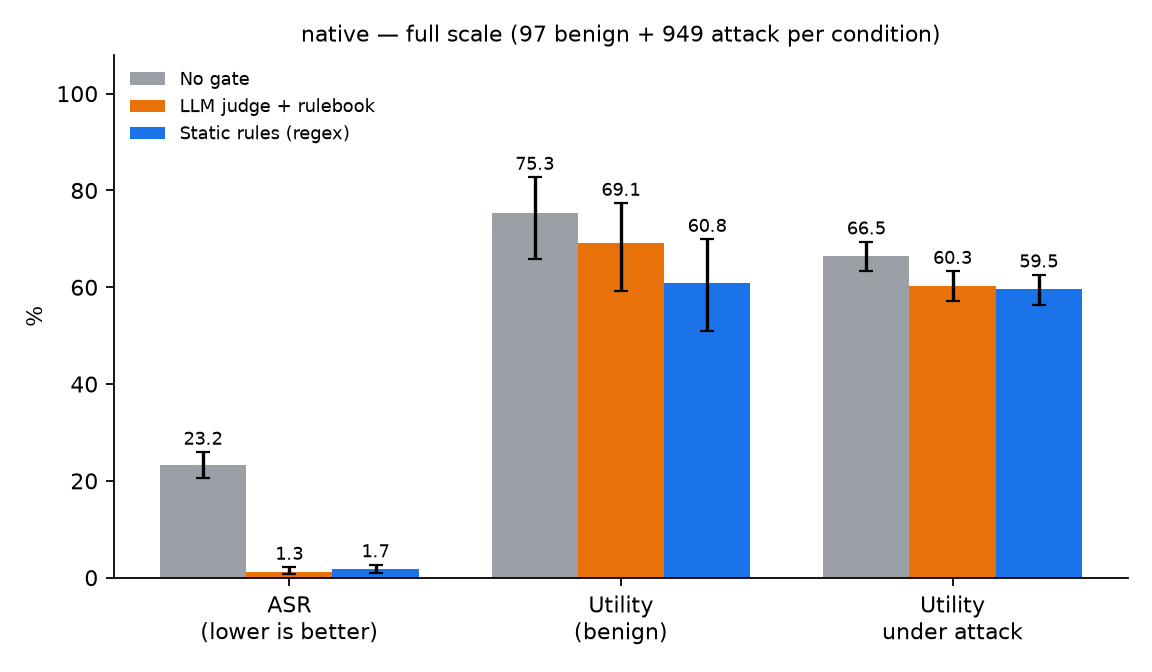
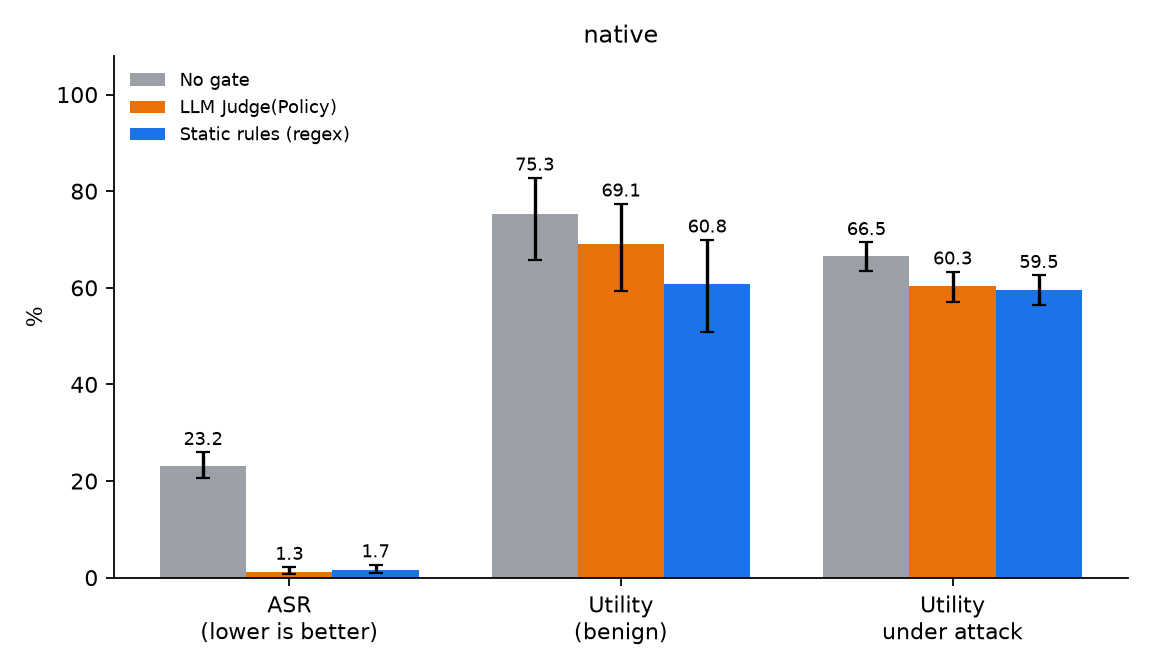
results: 에이전트별 그래프 제목을 에이전트 이름만으로 바꾸고 범례를 LLM Judge(Policy)로 변경

diff --git a/scripts/analysis/make_agent_figures.py b/scripts/analysis/make_agent_figures.py
@@ -22,7 +22,7 @@ SUMMARY = PROJECT_ROOT / "results" / "summary"
 FIG_DIR = PROJECT_ROOT / "results" / "figures"
 SECTION = "## 에이전트별 그래프"
 CONDITIONS = ["no_gate", "gate_llm_judge", "gate_static_rules"]
-LABEL = {"no_gate": "No gate", "gate_llm_judge": "LLM judge + rulebook", "gate_static_rules": "Static rules (regex)"}
+LABEL = {"no_gate": "No gate", "gate_llm_judge": "LLM Judge(Policy)", "gate_static_rules": "Static rules (regex)"}
 COLOR = {"no_gate": "#9aa0a6", "gate_llm_judge": "#e8710a", "gate_static_rules": "#1a73e8"}
 METRICS = [("asr", "ASR\n(lower is better)"), ("utility", "Utility\n(benign)"), ("uua", "Utility\nunder attack")]
 
@@ -58,7 +58,7 @@ def draw(agent: str, info: dict, out) -> None:
     ax.set_xticks(range(len(METRICS)), [name for _, name in METRICS])
     ax.set_ylim(0, 108)
     ax.set_ylabel("%")
-    ax.set_title(f"{agent} — {info['sample']}", fontsize=10)
+    ax.set_title(agent, fontsize=11)
     ax.legend(frameon=False, fontsize=8, loc="upper left")
     ax.spines[["top", "right"]].set_visible(False)
     fig.tight_layout()

diff --git a/scripts/analysis/summarize_frameworks.py b/scripts/analysis/summarize_frameworks.py
@@ -26,7 +26,7 @@ RESULTS = PROJECT_ROOT / "results" / "RESULTS.md"
 SECTION = "## 프레임워크별 결과(층화 표본)"
 CONDITIONS = ["no_gate", "gate_llm_judge", "gate_static_rules"]
 NAMES = {"no_gate": "Gate 없음", "gate_llm_judge": "판정 LLM + 룰북", "gate_static_rules": "룰북 정적 코드(정규식)"}
-LABEL = {"no_gate": "No gate", "gate_llm_judge": "LLM judge + rulebook", "gate_static_rules": "Static rules (regex)"}
+LABEL = {"no_gate": "No gate", "gate_llm_judge": "LLM Judge(Policy)", "gate_static_rules": "Static rules (regex)"}
 COLOR = {"no_gate": "#9aa0a6", "gate_static_rules": "#1a73e8", "gate_llm_judge": "#e8710a"}
 METRICS = [("asr", "ASR"), ("utility", "Utility"), ("uua", "공격 중 Utility")]
 

diff --git a/scripts/analysis/make_figures.py b/scripts/analysis/make_figures.py
@@ -25,7 +25,7 @@ from agentgate.experiment.metrics import wilson  # noqa: E402
 
 FIG_DIR = PROJECT_ROOT / "results" / "figures"
 ORDER = ["no_gate", "gate_static_rules", "gate_llm_judge"]
-LABEL = {"no_gate": "No gate", "gate_static_rules": "Static rules (regex)", "gate_llm_judge": "LLM judge + rulebook"}
+LABEL = {"no_gate": "No gate", "gate_static_rules": "Static rules (regex)", "gate_llm_judge": "LLM Judge(Policy)"}
 COLOR = {"no_gate": "#9aa0a6", "gate_static_rules": "#1a73e8", "gate_llm_judge": "#e8710a"}
 METRICS = [("asr", "ASR (lower is better)"), ("utility", "Utility (benign)"),
            ("utility_under_attack", "Utility under attack")]

diff --git a/results/RESULTS.md b/results/RESULTS.md
@@ -103,7 +103,6 @@
 
 ![mini-swe-agent](figures/agent_mini-swe-agent.png)
 
-
 ## 실험 흐름
 
 ```mermaid
